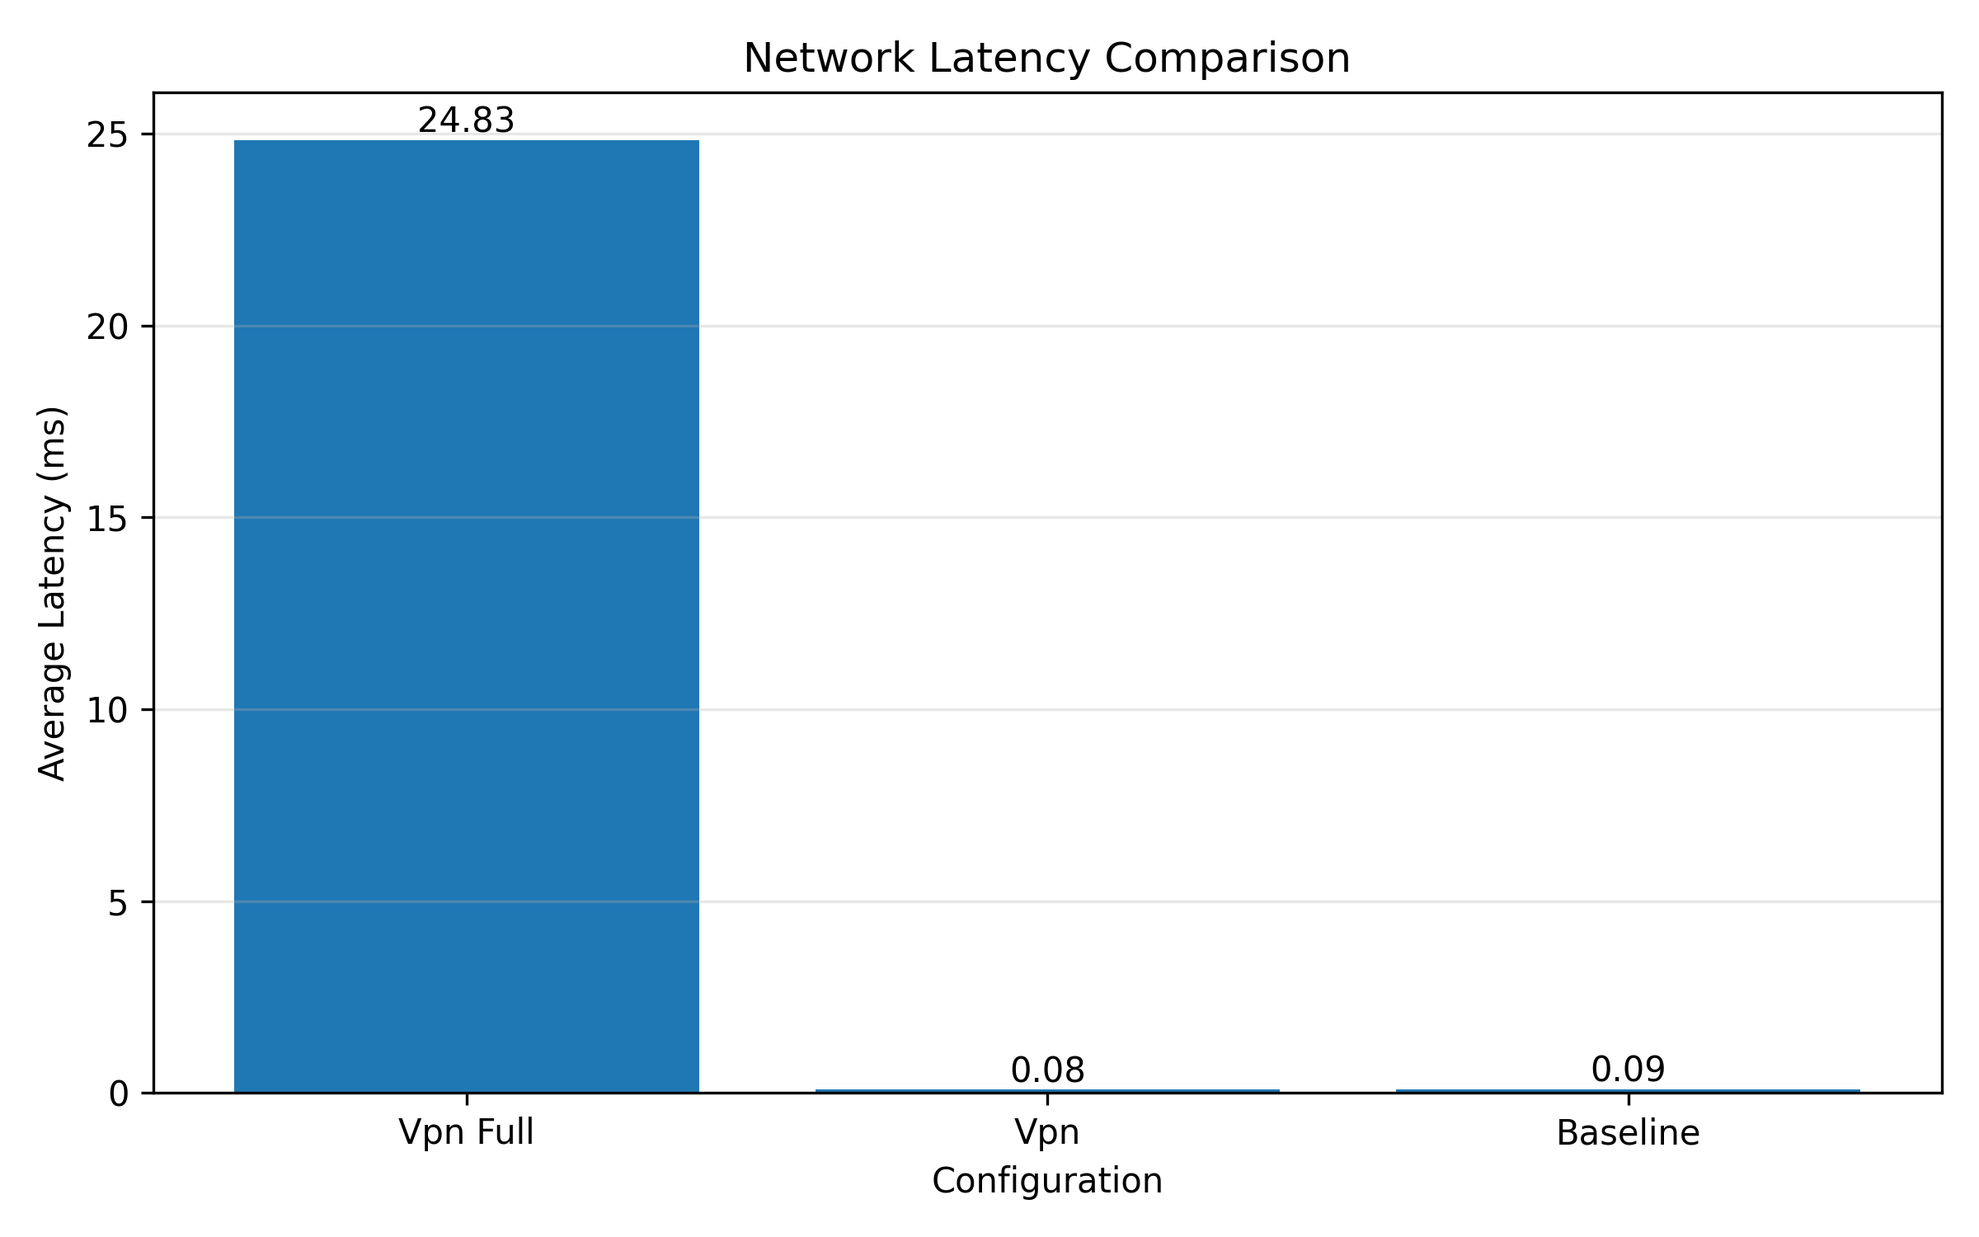
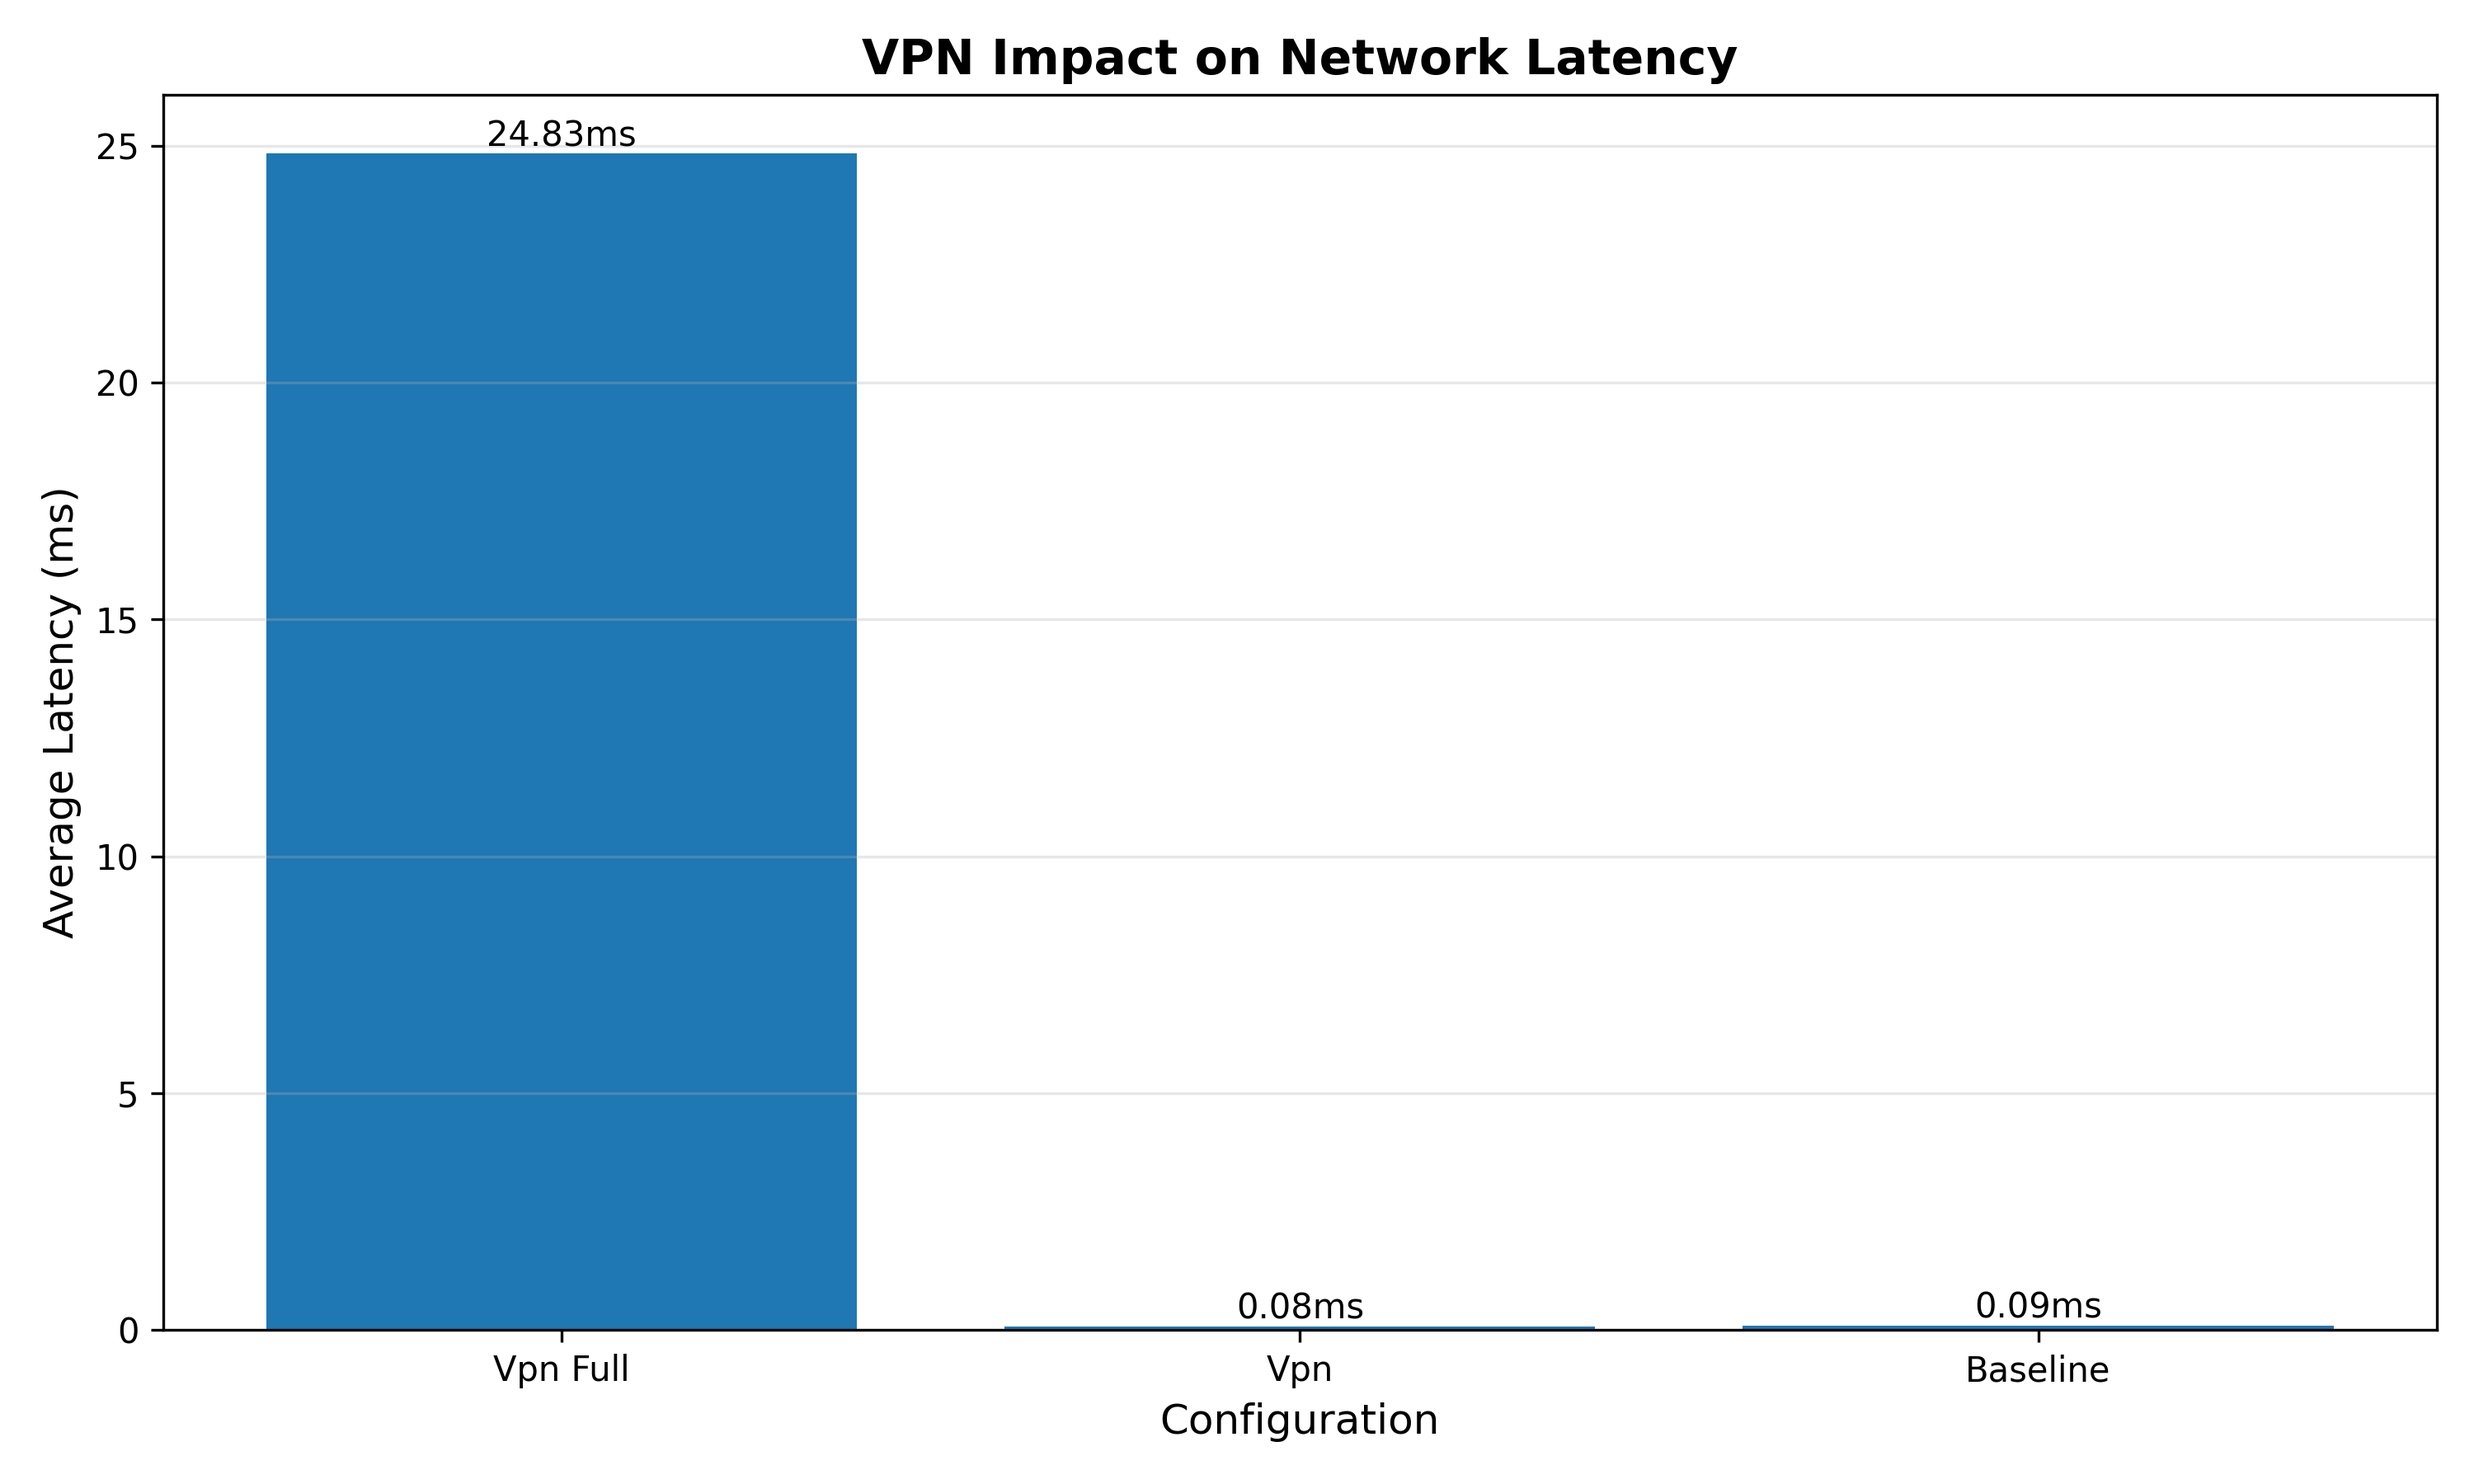
Complete Task 4.2: data analysis, visualizations, and OpenVPN Wireshark captures

Changed region(s): [[0.0, 0.0307, 1.0, 0.9813]]

diff --git a/performance-tests/analyze_results.py b/performance-tests/analyze_results.py
@@ -1,4 +1,5 @@
 #!/usr/bin/env python3
+
 """
 Performance Results Analysis and Visualization
 
@@ -7,134 +8,260 @@ COSC 450 Final Project - Longyu Tang
 
 import json
 import matplotlib.pyplot as plt
+import numpy as np
 from pathlib import Path
 
 
 class ResultsAnalyzer:
-    def __init__(self, results_dir="./results"):
+    def __init__(self, results_dir='./results'):
         self.results_dir = Path(results_dir)
         self.data = {}
         self.load_all_results()
 
     def load_all_results(self):
         """Load all JSON result files"""
-        for json_file in self.results_dir.glob("*.json"):
+        for json_file in self.results_dir.glob('*.json'):
             with open(json_file) as f:
                 scenario = json_file.stem
                 self.data[scenario] = json.load(f)
 
     def plot_latency_comparison(self):
+        """Create latency comparison bar chart"""
         scenarios = []
         avg_latencies = []
 
         for scenario, data in self.data.items():
-            tests = data.get("tests", {})
-            if "latency" in tests:
-                label = scenario.replace("_network", "").replace("_", " ").title()
-                scenarios.append(label)
-                avg_latencies.append(tests["latency"]["avg"])
+            if 'network' in scenario and 'latency' in data.get('tests', {}):
+                scenarios.append(
+                    scenario.replace('_network', '').replace('_', ' ').title()
+                )
+                avg_latencies.append(data['tests']['latency']['avg'])
 
         if not scenarios:
-            print("[!] No latency data found")
+            print("[!] No latency results found, skipping latency plot.")
             return
 
-        plt.figure(figsize=(8, 5))
+        plt.figure(figsize=(10, 6))
         bars = plt.bar(scenarios, avg_latencies)
-        plt.xlabel("Configuration")
-        plt.ylabel("Average Latency (ms)")
-        plt.title("Network Latency Comparison")
-        plt.grid(axis="y", alpha=0.3)
 
+        plt.xlabel('Configuration', fontsize=12)
+        plt.ylabel('Average Latency (ms)', fontsize=12)
+        plt.title('VPN Impact on Network Latency', fontsize=14, fontweight='bold')
+        plt.grid(axis='y', alpha=0.3)
+
+        # Add value labels on bars
         for bar in bars:
             height = bar.get_height()
             plt.text(
-                bar.get_x() + bar.get_width() / 2,
+                bar.get_x() + bar.get_width() / 2.0,
                 height,
-                f"{height:.2f}",
-                ha="center",
-                va="bottom",
+                f'{height:.2f}ms',
+                ha='center',
+                va='bottom',
+                fontsize=10,
             )
 
-        out = self.results_dir / "latency_comparison.png"
         plt.tight_layout()
-        plt.savefig(out, dpi=300)
+        plt.savefig(self.results_dir / 'latency_comparison.png', dpi=300)
         plt.close()
-        print(f"[+] Saved: {out.name}")
+        print("[+] Saved: latency_comparison.png")
 
     def plot_throughput_comparison(self):
+        """Create throughput comparison bar chart"""
         scenarios = []
         throughputs = []
 
         for scenario, data in self.data.items():
-            tests = data.get("tests", {})
-            if "throughput" in tests:
-                label = scenario.replace("_network", "").replace("_", " ").title()
-                scenarios.append(label)
-                throughputs.append(tests["throughput"]["value"])
+            if 'network' in scenario and 'throughput' in data.get('tests', {}):
+                scenarios.append(
+                    scenario.replace('_network', '').replace('_', ' ').title()
+                )
+                throughputs.append(data['tests']['throughput']['value'])
 
         if not scenarios:
-            print("[!] No throughput data found")
+            print("[!] No throughput results found, skipping throughput plot.")
             return
 
-        plt.figure(figsize=(8, 5))
+        plt.figure(figsize=(10, 6))
         bars = plt.bar(scenarios, throughputs)
-        plt.xlabel("Configuration")
-        plt.ylabel("Throughput (Mbps)")
-        plt.title("Network Throughput Comparison")
-        plt.grid(axis="y", alpha=0.3)
+
+        plt.xlabel('Configuration', fontsize=12)
+        plt.ylabel('Throughput (Mbps)', fontsize=12)
+        plt.title('VPN Impact on Network Throughput', fontsize=14, fontweight='bold')
+        plt.grid(axis='y', alpha=0.3)
 
         for bar in bars:
             height = bar.get_height()
             plt.text(
-                bar.get_x() + bar.get_width() / 2,
+                bar.get_x() + bar.get_width() / 2.0,
                 height,
-                f"{height:.1f}",
-                ha="center",
-                va="bottom",
+                f'{height:.1f}',
+                ha='center',
+                va='bottom',
+                fontsize=10,
             )
 
-        out = self.results_dir / "throughput_comparison.png"
         plt.tight_layout()
-        plt.savefig(out, dpi=300)
+        plt.savefig(self.results_dir / 'throughput_comparison.png', dpi=300)
         plt.close()
-        print(f"[+] Saved: {out.name}")
+        print("[+] Saved: throughput_comparison.png")
 
-    def generate_summary(self):
-        report = self.results_dir / "performance_summary.txt"
-        with open(report, "w") as f:
-            f.write("COSC 450 Performance Test Summary\n")
-            f.write("=" * 50 + "\n\n")
-            for scenario, data in self.data.items():
-                f.write(f"{scenario.upper()}\n")
-                f.write("-" * 50 + "\n")
-                tests = data.get("tests", {})
-                if "latency" in tests:
-                    f.write(f"Latency avg: {tests['latency']['avg']:.2f} ms\n")
-                if "throughput" in tests:
+    def plot_file_transfer_performance(self):
+        """Create file transfer performance chart"""
+        plt.figure(figsize=(12, 6))
+        has_data = False
+
+        for scenario, data in self.data.items():
+            if 'app' in scenario and 'file_transfer' in data.get('tests', {}):
+                transfers = data['tests']['file_transfer']
+                sizes = [t['file_size_mb'] for t in transfers]
+                times = [t['transfer_time_sec'] for t in transfers]
+                label = scenario.replace('_app', '').replace('_', ' ').title()
+                plt.plot(
+                    sizes,
+                    times,
+                    marker='o',
+                    linewidth=2,
+                    markersize=8,
+                    label=label,
+                )
+                has_data = True
+
+        if not has_data:
+            print("[!] No app/file_transfer data found, skipping file transfer plot.")
+            plt.close()
+            return
+
+        plt.xlabel('File Size (MB)', fontsize=12)
+        plt.ylabel('Transfer Time (seconds)', fontsize=12)
+        plt.title(
+            'File Transfer Performance Across Configurations',
+            fontsize=14,
+            fontweight='bold',
+        )
+        plt.legend(fontsize=10)
+        plt.grid(alpha=0.3)
+        plt.tight_layout()
+        plt.savefig(self.results_dir / 'file_transfer_performance.png', dpi=300)
+        plt.close()
+        print("[+] Saved: file_transfer_performance.png")
+
+    def plot_overhead_analysis(self):
+        """Calculate and plot VPN overhead"""
+        baseline_throughput = None
+        vpn_throughput = None
+
+        for scenario, data in self.data.items():
+            tests = data.get('tests', {})
+            if 'baseline' in scenario and 'throughput' in tests:
+                baseline_throughput = tests['throughput']['value']
+            elif 'vpn_full' in scenario and 'throughput' in tests:
+                vpn_throughput = tests['throughput']['value']
+
+        if not (baseline_throughput and vpn_throughput):
+            print("[!] Missing baseline/vpn_full throughput, skipping overhead plot.")
+            return
+
+        overhead = ((baseline_throughput - vpn_throughput) / baseline_throughput) * 100
+
+        fig, ax = plt.subplots(figsize=(8, 6))
+        categories = ['Baseline', 'VPN Overhead', 'VPN Throughput']
+        values = [
+            baseline_throughput,
+            baseline_throughput - vpn_throughput,
+            vpn_throughput,
+        ]
+
+        bars = ax.bar(categories, values)
+        ax.set_ylabel('Throughput (Mbps)', fontsize=12)
+        ax.set_title(
+            f'VPN Overhead Analysis\n({overhead:.1f}% reduction)',
+            fontsize=14,
+            fontweight='bold',
+        )
+        ax.grid(axis='y', alpha=0.3)
+
+        for bar in bars:
+            height = bar.get_height()
+            ax.text(
+                bar.get_x() + bar.get_width() / 2.0,
+                height,
+                f'{height:.1f}',
+                ha='center',
+                va='bottom',
+                fontsize=10,
+            )
+
+        plt.tight_layout()
+        plt.savefig(self.results_dir / 'vpn_overhead.png', dpi=300)
+        plt.close()
+        print("[+] Saved: vpn_overhead.png")
+
+    def generate_summary_report(self):
+        """Generate text summary of results"""
+        report_file = self.results_dir / 'performance_summary.txt'
+
+        with open(report_file, 'w') as f:
+            f.write("=" * 70 + "\n")
+            f.write("COSC 450 Final Project - Performance Test Summary\n")
+            f.write("=" * 70 + "\n\n")
+
+            for scenario, data in sorted(self.data.items()):
+                f.write(f"\n{scenario.upper()}\n")
+                f.write("-" * 70 + "\n")
+
+                tests = data.get('tests', {})
+
+                if 'latency' in tests:
+                    lat = tests['latency']
+                    f.write("Latency:\n")
+                    f.write(f"  Average: {lat['avg']:.2f} ms\n")
+                    f.write(f"  Min: {lat['min']:.2f} ms\n")
+                    f.write(f"  Max: {lat['max']:.2f} ms\n")
+                    f.write(f"  Std Dev: {lat['stdev']:.2f} ms\n\n")
+
+                if 'throughput' in tests:
+                    tp = tests['throughput']
                     f.write(
-                        f"Throughput: {tests['throughput']['value']:.2f} {tests['throughput']['unit']}\n"
+                        f"Throughput: {tp['value']:.2f} {tp['unit']}\n\n"
                     )
-                if "packet_loss" in tests:
-                    f.write(f"Packet loss: {tests['packet_loss']['value']}%\n")
-                f.write("\n")
 
-        print(f"[+] Saved: {report.name}")
+                if 'packet_loss' in tests:
+                    pl = tests['packet_loss']
+                    f.write(f"Packet Loss: {pl['value']:.2f}%\n\n")
 
-    def run_all(self):
+                if 'file_transfer' in tests:
+                    f.write("File Transfer Results:\n")
+                    for transfer in tests['file_transfer']:
+                        f.write(f"  {transfer['file_size_mb']}MB: ")
+                        f.write(f"{transfer['transfer_time_sec']:.2f}s ")
+                        f.write(
+                            f"({transfer['throughput_mbps']:.2f} Mbps)\n"
+                        )
+
+            f.write("\n" + "=" * 70 + "\n")
+
+        print(f"[+] Summary report saved: {report_file}")
+
+    def generate_all_visualizations(self):
+        """Generate all charts and reports"""
+        print("\n=== Generating Performance Visualizations ===\n")
         self.plot_latency_comparison()
         self.plot_throughput_comparison()
-        self.generate_summary()
-        print("[+] Analysis complete")
+        self.plot_file_transfer_performance()
+        self.plot_overhead_analysis()
+        self.generate_summary_report()
+        print("\n[+] All visualizations complete!")
 
 
-if __name__ == "__main__":
+if __name__ == '__main__':
     import argparse
 
-    parser = argparse.ArgumentParser()
-    parser.add_argument("--dir", default="./results")
+    parser = argparse.ArgumentParser(description='Analyze Performance Results')
+    parser.add_argument('--dir', default='./results', help='Results directory')
+
     args = parser.parse_args()
 
     analyzer = ResultsAnalyzer(args.dir)
-    analyzer.run_all()
-
+    analyzer.generate_all_visualizations()
 
